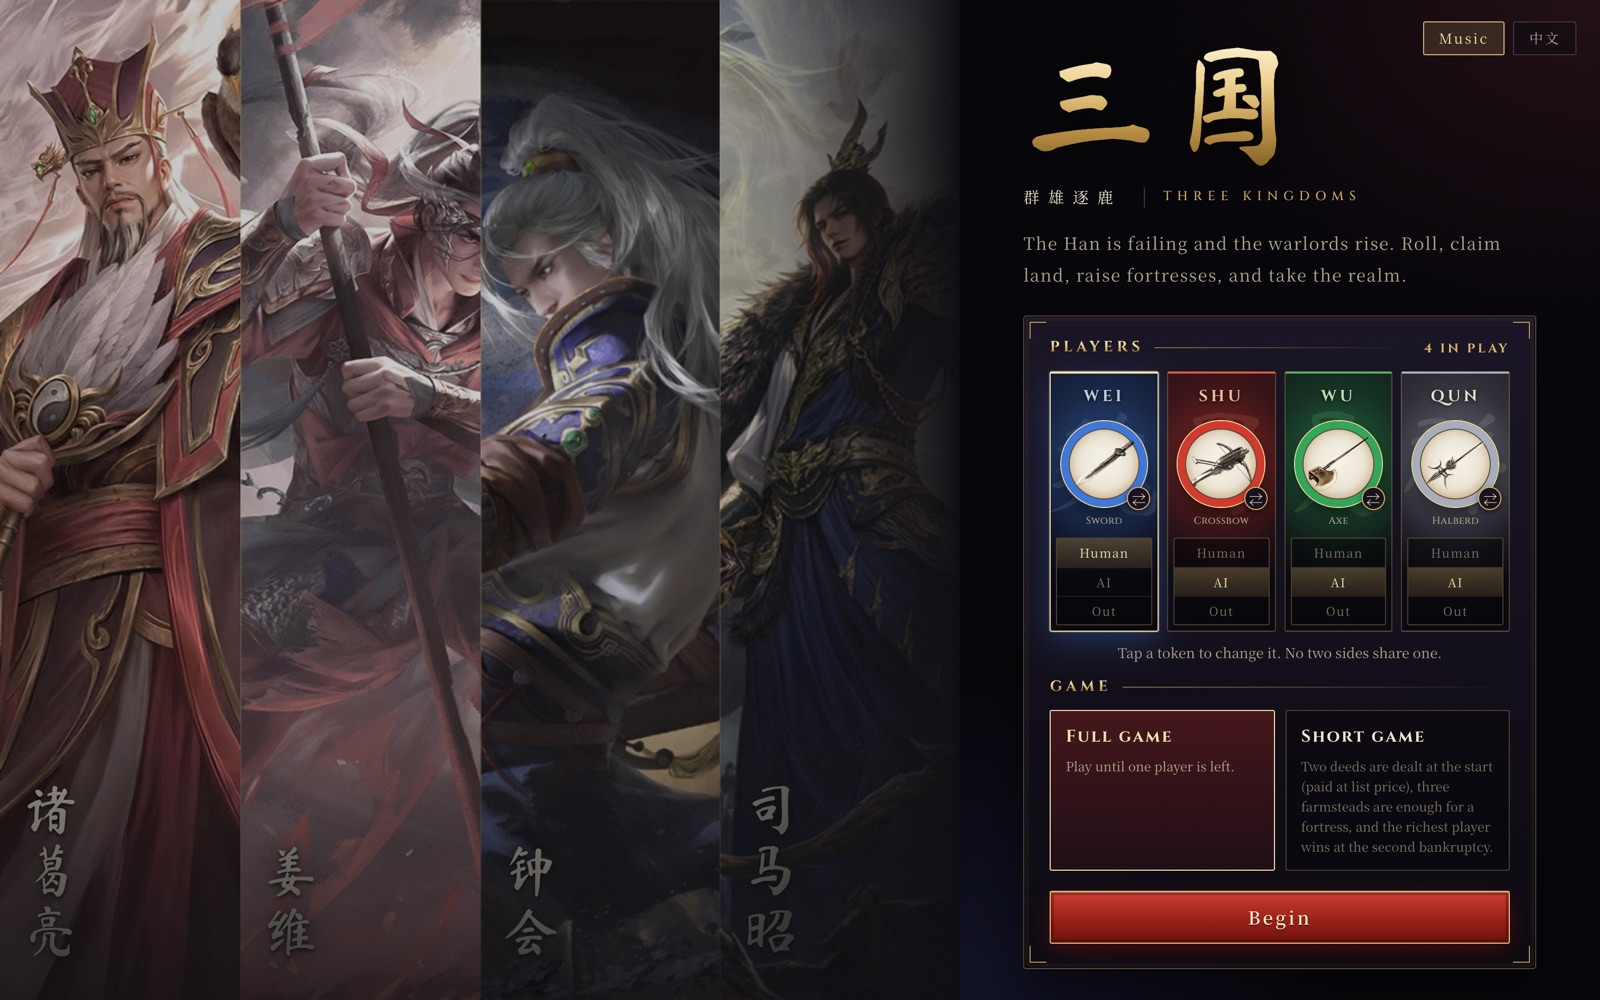
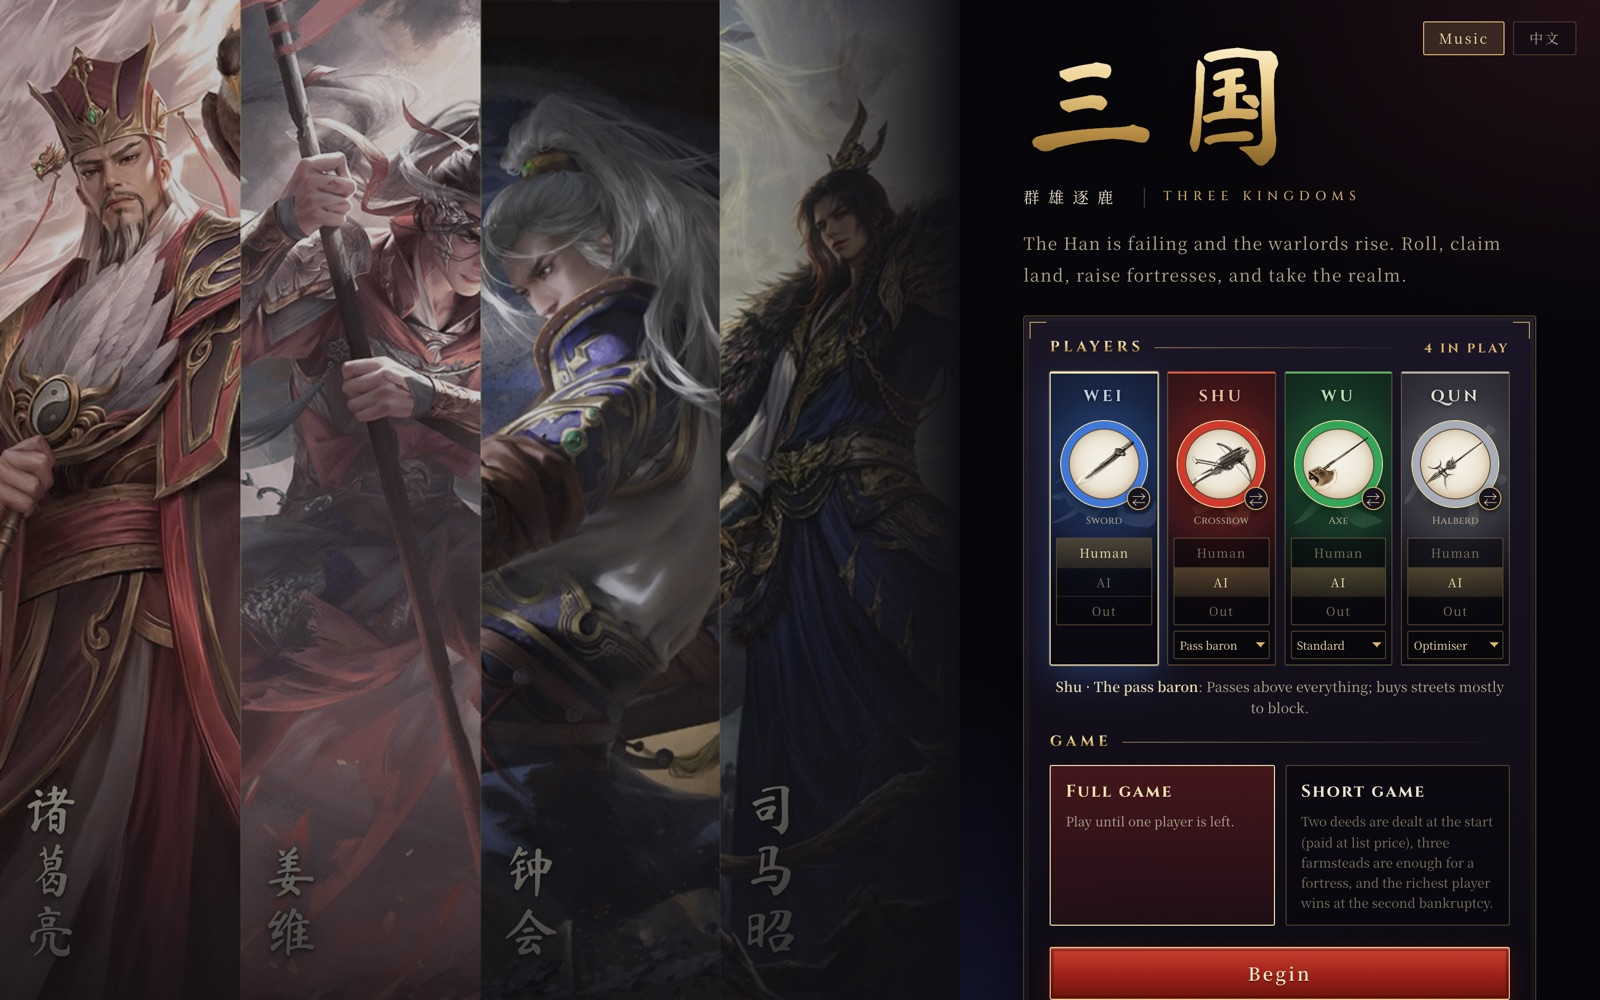
Record M10's first version and show the opponent menu in the README

Changed region(s): [[0.6562, 0.62, 0.9688, 1.0], [0.8438, 0.496, 0.875, 0.527], [0.6875, 0.496, 0.7188, 0.527]]

diff --git a/README.md b/README.md
@@ -1,5 +1,5 @@
 <p align="center">
-  <img src="docs/images/setup-en.jpg" alt="The setup screen: four warlords, their tokens, and the choice of game" width="100%">
+  <img src="docs/images/setup-en.jpg" alt="The setup screen: four warlords, their tokens, an opponent for each computer seat, and the choice of game" width="100%">
 </p>
 
 <h1 align="center">三国 · Three Kingdoms</h1>
@@ -36,9 +36,9 @@ Wei, Shu, Wu and Qun roll for the order of play, travel a board of warlords, pas
 | **Games** | The full game, played to the last player standing, or the short game (60 to 90 minutes), ranked by net worth at the second bankruptcy |
 | **Runs** | In the browser, or as the macOS app *The Romance of Three Kingdoms: Tycoon* |
 | **Languages** | Chinese and English, switched at any time |
-| **Computer players** | Today's rule-based player, dozens of named styles, styles found by search, and a two-player agent trained by reinforcement learning |
+| **Computer players** | Chosen for each computer seat on the opening screen: today's rule-based player, named characters such as the pass baron and the dealer, the strongest style the search found, and, once shipped, the two-player agent trained by reinforcement learning |
 | **Code** | A rules engine in TypeScript with no dependencies; a React client; training in Python and PyTorch |
-| **Tests** | 280 TypeScript tests and 53 Python tests |
+| **Tests** | 283 TypeScript tests and 53 Python tests |
 
 <p align="center">
   <img src="docs/images/game-en.jpg" alt="A game in progress at turn 35: the board, the dice, the warlords' standings and the chronicle" width="100%">
@@ -80,7 +80,7 @@ The goal is computer players that are strong, varied and pleasant to play agains
 | **M9** | **Trading: the learner makes its own offers** | **Moved forward to come before four players; foundation built** |
 | M7 | Every table size in the full game; one shared agent against specialists | Code for its first steps written |
 | M8 | League training, and learning when to change plan | To do |
-| M10 | The opponents in the client | Started: choosing an opponent for each computer seat |
+| M10 | The opponents in the client | First version in the game: an opponent for each computer seat, learned ones run in the background; the two-player agent ships when the data disk is back |
 
 **Where the two-player agent stands (G1).** Trained from the imitation network over 50 million decisions, three times from different random seeds:
 
@@ -173,7 +173,7 @@ The street portraits and the token drawings are third-party illustrations from t
 </p>
 
 <p align="center">
-  <img src="docs/images/setup-zh.jpg" alt="开局界面：四方群雄、各自的棋子，以及战局选择" width="100%">
+  <img src="docs/images/setup-zh.jpg" alt="开局界面：四方群雄、各自的棋子、每个电脑座位的对手，以及战局选择" width="100%">
 </p>
 
 魏、蜀、吴、群四方掷骰定先后，在满是名将、关隘和官营产业的棋盘上行棋，买下落脚的地、盖田庄筑坞堡、互相交易，最后撑到不破产的一方获胜。游戏可以在浏览器里玩，也可以作为 macOS 应用打开；中英文随时切换，真人和电脑可以任意搭配。
@@ -187,9 +187,9 @@ The street portraits and the token drawings are third-party illustrations from t
 | **战局** | 持久战：打到只剩一方；速决战：60 到 90 分钟，第二个人破产时按总资产排名 |
 | **运行** | 浏览器，或 macOS 应用 *The Romance of Three Kingdoms: Tycoon* |
 | **语言** | 中文、英文，随时切换 |
-| **电脑对手** | 游戏原有的规则打法、几十种有名有姓的流派、程序搜索出的最强打法，以及用强化学习练出来的二人局 AI |
+| **电脑对手** | 开局界面给每个电脑座位单独挑：游戏原有的规则打法、关隘大亨和掮客这样有名有姓的流派人物、程序搜索出的最强打法，以及（装进游戏后）用强化学习练出来的二人局 AI |
 | **代码** | TypeScript 写的规则引擎（不依赖任何库）、React 前端、Python 和 PyTorch 训练 |
-| **测试** | TypeScript 测试 280 项，Python 测试 53 项 |
+| **测试** | TypeScript 测试 283 项，Python 测试 53 项 |
 
 <p align="center">
   <img src="docs/images/game-zh.jpg" alt="第 33 回合的对局：棋盘、骰子、群雄排名和战报" width="100%">
@@ -231,7 +231,7 @@ npm run dev          # 然后打开 http://localhost:5173
 | **M9** | **交易：AI 自己提交易** | **已提前到四人局之前；地基已写好** |
 | M7 | 所有人数的完整对局；比较一个通用 AI 和各人数的专门 AI | 前几步的代码已写好 |
 | M8 | 联赛训练，学会什么时候换打法 | 未开始 |
-| M10 | 把对手放进游戏里 | 已开始：可以给每个电脑座位挑对手 |
+| M10 | 把对手放进游戏里 | 第一版已进游戏：每个电脑座位都能挑对手，神经网络对手在后台运行；二人局 AI 等数据硬盘接回后装进去 |
 
 **二人局 AI（G1）的成绩。** 从模仿网络出发练了 5000 万步，换三组随机数各练了一遍：
 

diff --git a/docs/plan/log.md b/docs/plan/log.md
@@ -609,3 +609,28 @@ Later the same afternoon, at the author's word ("the full plan, checked carefull
 | The two-player gate | `scripts/queue/m9-two-player.sh` | A dry run on fake finished runs; a run without a suite stops at once |
 
 278 TypeScript tests and 53 Python tests pass; both type checks pass. Pushed as `ai/m9-trading`. When the disk is back, the order is: `queue/disk-back-2.sh` (filler), the suites (M9's commands), then `scripts/queue/m9-two-player.sh`.
+
+## 20 November, night, without the disk: M10 in the client
+
+### Task 1: the opponents offered
+
+`src/sim/opponents.ts` lists what a computer seat can play as: today's rule-based agent (level 1, the default), six named schools as characters without a level (the author's style, the pass baron, the blocker, the dealer, the opportunist, and the statesman at three and four players), the holder of the table size's style line (level 3), and the holder of its main line (level 4) when a model of it is shipped and it is the regular game. A shipped model is offered only while the member it was exported from holds its line. A choice that cannot sit at a table gives way to the offered opponent of the nearest level at or below its own, and a character to the default.
+
+Task 1's check, `OPPONENT_GAMES=200 node --test test/opponents.test.ts`: every opponent offered, at each of its sizes, in both the regular and the short game, in seat one against rule-based seats, 200 games each. That is 46 combinations and 9,200 games, with every action answered and accepted by the engine. It took 44 minutes 48 seconds in one process.
+
+### Tasks 2 to 4: the store, the setup screen, the brain
+
+| Task | What was built | How it was checked |
+| --- | --- | --- |
+| 2. The store | `web/src/game/seats.ts`: an opponent per computer seat, events to every opponent after every applied action, answers that may be promises (the 850 ms pause starts when the seat is asked), and the fallback to the rule-based agent for the rest of the game when an opponent fails | `test/seats.test.ts`: default seats play the same actions as the former loop on the same random draws (three seeds, up to 3,000 actions each); five kinds of failure each fall back once and the game goes on; every opponent receives every event exactly once, in order, one of them while still loading |
+| 3. The setup screen | A menu under each computer seat, grouped by level and characters; the hint line gives the full name, the level and the description of the one last picked | At 1512 by 945 with four seats, in both languages: no scrolling, every name fits. The English name of the style line's holder became "The optimiser" to fit |
+| 4. The brain | `web/src/game/brain.ts` and `brain-worker.ts`: the agent with its own engine in a web worker built into the app's one script, the main thread when no worker starts; `web/src/game/opponents.ts`: the shipped models from `assets/models/`, offered only while their record's `holder` holds the line; development models from `assets/models/dev/` in the dev server only | With an untrained network of the real size: two workers in the dev server; a model of the wrong version failed only its seat; with workers unavailable, no main-thread task over 50 ms; in the from-disk app build in headless Chrome the worker started and the seat played. Decision time in Node: median 3.3 ms, 95th percentile 15.7 ms, 99th 40 ms, worst 180 ms |
+
+`npm run typecheck` passes and 283 TypeScript tests pass; both builds succeed, the app's copy still one script (835 kB, about 3.9 MB with one model inside).
+
+Not done, and why:
+
+- **Shipping G1's model as `main-2`.** The export (`runs/g1-s1/exports/00180.ts`) is on the disk. When it is back: copy it to `assets/models/main-2.ts`, write `assets/models/main-2.json` with `holder` set to the line's holder, and play a full game against it in the dev server and in the installed app (task 4's check with the real model).
+- **Gate 4 on the main thread.** A rare decision takes up to 180 ms, over the 50 ms bar; the worker meets the gate, and Chrome started it from `file://`, so the main thread is only the fallback.
+- **Task 5, the person's check,** is the author's to do: three games for each opponent at each table size, with the record in M10's plan.
+- **Task 5a,** playing the table in the client (`maxAsks`, the debt window, invitations shown as offers), is next.

diff --git a/docs/plan/README.md b/docs/plan/README.md
@@ -17,7 +17,7 @@ M0, M1 and M4 are done, M2 is built, M3 was run at reduced size. M3b, table poli
 | M7 | [The full game and the specialists](m07-full-game.md) | G | M6 | Code for tasks 1 and 6 written and checked (19 November 2026): `train/branch.py`, past selves, checks at every size, the configurations, `study.ts --members`. No run made |
 | M8 | [League training and the reward search](m08-league-training.md) | E, G | M7 | Not started |
 | M9 | [Trading](m09-trading.md) | H | Moved forward on 20 November: parts A and B after G1 and before G2; part C inside G2 and G3; part D in M7 and M8 | Next: part A (action version 3, layout version 4, the drafting schedule, the offer suite, gate 7's remedy, Balancer's fix) |
-| M10 | [In the client](m10-in-the-client.md) | J | M5 for a first model; M9 for the last | Not started |
+| M10 | [In the client](m10-in-the-client.md) | J | M5 for a first model; M9 for the last | First version's tasks 1 to 4 built |
 
 ```text
 M0 ── M1 ──┬── M2 ── M3 ── M3b ──┐

diff --git a/docs/plan/m10-in-the-client.md b/docs/plan/m10-in-the-client.md
@@ -196,4 +196,11 @@ npm run app:install                            # the desktop app, with the shipp
 
 ## Result
 
-Not yet run.
+First version, tasks 1 to 4, built on 20 November 2026 without the disk; the record is in [log.md](log.md) under that date.
+
+- Task 1: every opponent offered, at each of its sizes, in both games, 200 games each (46 combinations, 9,200 games): every action answered and accepted.
+- Task 2: the store's tests pass, including the unchanged play of default seats.
+- Task 3: the menu fits the 1512 by 945 window with four seats in both languages.
+- Task 4: checked with an untrained network of the real size, in the dev server and in the from-disk build in headless Chrome, where the worker started. G1's model is not shipped yet: it is on the disk.
+
+Gate 4 holds through the worker; on the main thread a decision takes 3.3 ms at the median and up to 180 ms at worst. Tasks 5 and 5a are open, and so is everything of the final version.
